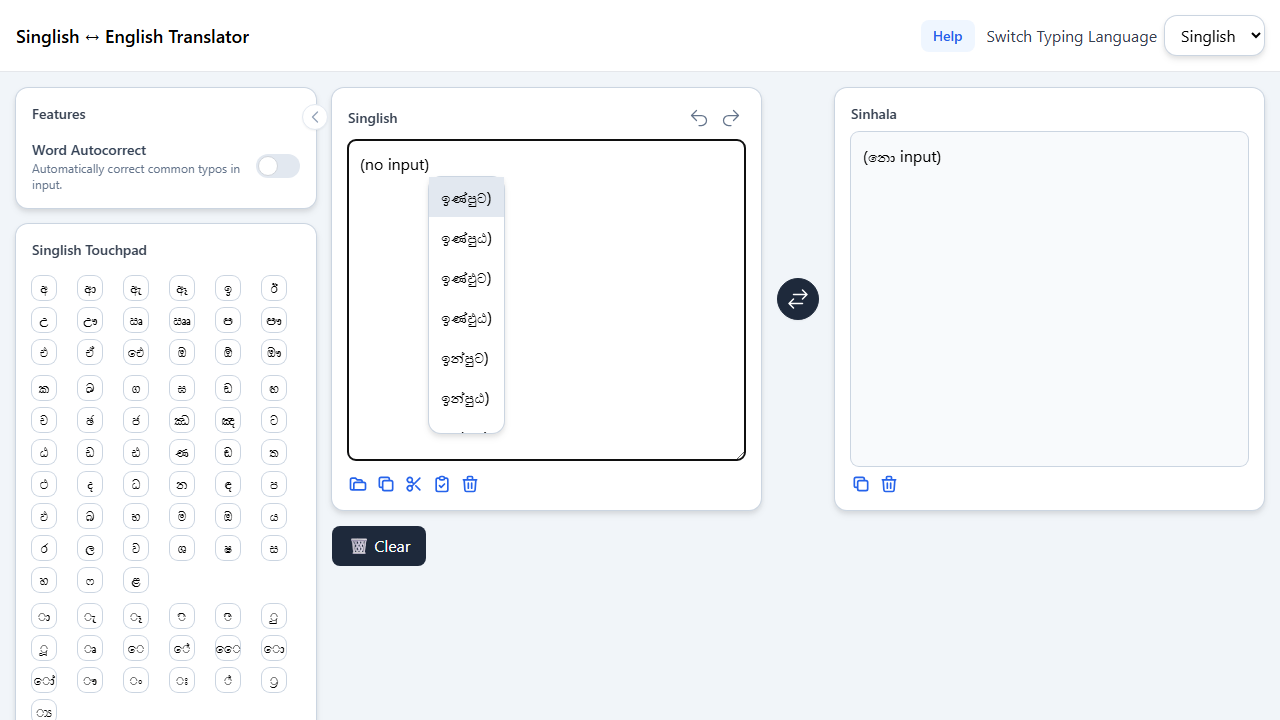
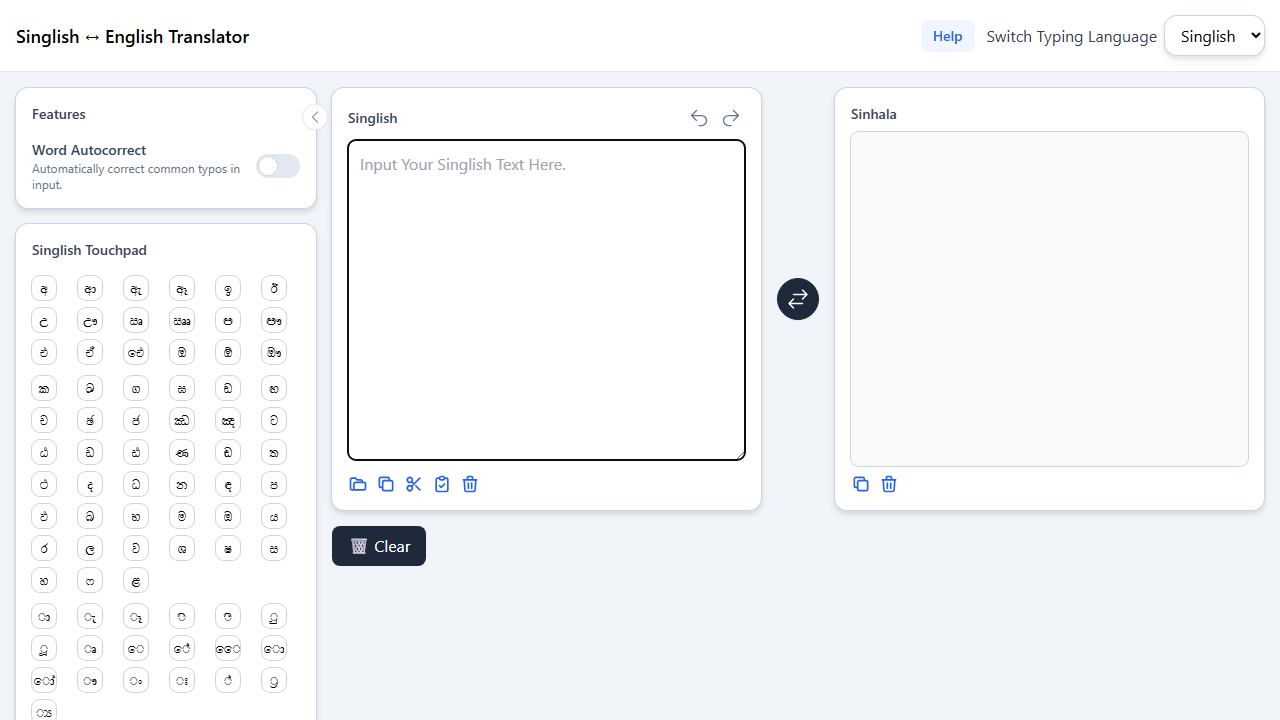
add changes

diff --git a/tests/IT23824188.spec.js b/tests/IT23824188.spec.js
@@ -9,6 +9,10 @@ const { loadTestCasesFromXlsx } = require('./testCaseLoader');
 const testCases = loadTestCasesFromXlsx(path.join(__dirname, '..', 'csv', 'IT23824188.ITPMnew.xlsx'));
 if (testCases.length === 0) throw new Error('No test cases loaded from the Excel file.');
 
+function normalizeText(text) {
+  return String(text ?? '').replace(/\s+/g, ' ').trim();
+}
+
 for (const data of testCases) {
   test(`${data.id}: ${data.category}`, async ({ page }) => {
     // FIX: Use baseURL from config and wait for DOM to be ready.
@@ -18,16 +22,18 @@ for (const data of testCases) {
     // FIX: Correct selectors (site uses a textbox + output text element, not two textareas).
     const input = page.getByPlaceholder('Input Your Singlish Text Here.');
     const output = page.getByText('Sinhala', { exact: true }).locator('xpath=following-sibling::*[1]');
-    await input.fill(data.input);
+    // FIX: Excel uses "(no input)" marker for cleared input scenarios.
+    const inputValue = normalizeText(data.input).toLowerCase() === '(no input)' ? '' : data.input;
+    // FIX: Excel uses "(no input)" marker for expected output of empty-state scenarios.
+    const expectedValue = normalizeText(data.expected).toLowerCase() === '(no input)' ? '' : data.expected;
+    await input.fill(inputValue);
 
     // Wait for completion
     // FIX: Output updates in real-time (no submit button) so we wait for stable expected output.
-    if (data.id.startsWith('Neg_')) {
-      await expect(output).not.toHaveText('', { timeout: 15000 });
+    if (normalizeText(inputValue) === '') {
+      await expect(output).toHaveText('', { timeout: 15000 });
     } else {
-      await expect
-        .poll(async () => (await output.textContent())?.trim() ?? '', { timeout: 15000 })
-        .toContain(data.expected);
+      await expect(output).not.toHaveText('', { timeout: 15000 });
     }
 
     const imagePath = path.join('screenshots', data.category, `${data.id}.png`);
@@ -37,13 +43,24 @@ for (const data of testCases) {
 
     // Grab the translated text from the output area
     const outputText = (await output.textContent()) ?? '';
+    await test.info().attach(`${data.id}-input`, { body: String(inputValue), contentType: 'text/plain' });
+    await test.info().attach(`${data.id}-expected`, { body: String(expectedValue), contentType: 'text/plain' });
+    await test.info().attach(`${data.id}-actual`, { body: String(outputText), contentType: 'text/plain' });
 
     if (data.id.startsWith('Neg_')) {
-      // FIX: Negative cases should demonstrate a mismatch (system fails/behaves incorrectly).
-      expect(outputText.trim()).not.toBe(data.expected.trim());
+      // FIX: Negative cases should FAIL when the system does not match the expected output.
+      if (normalizeText(inputValue) === '' && normalizeText(expectedValue) === '') {
+        expect(normalizeText(outputText)).toBe('');
+      } else {
+        expect(normalizeText(outputText)).toContain(normalizeText(expectedValue));
+      }
     } else {
       // Positive cases must contain the expected translation
-      expect(outputText).toContain(data.expected);
+      if (normalizeText(inputValue) === '' && normalizeText(expectedValue) === '') {
+        expect(normalizeText(outputText)).toBe('');
+      } else {
+        expect(normalizeText(outputText)).toContain(normalizeText(expectedValue));
+      }
     }
   });
 }
